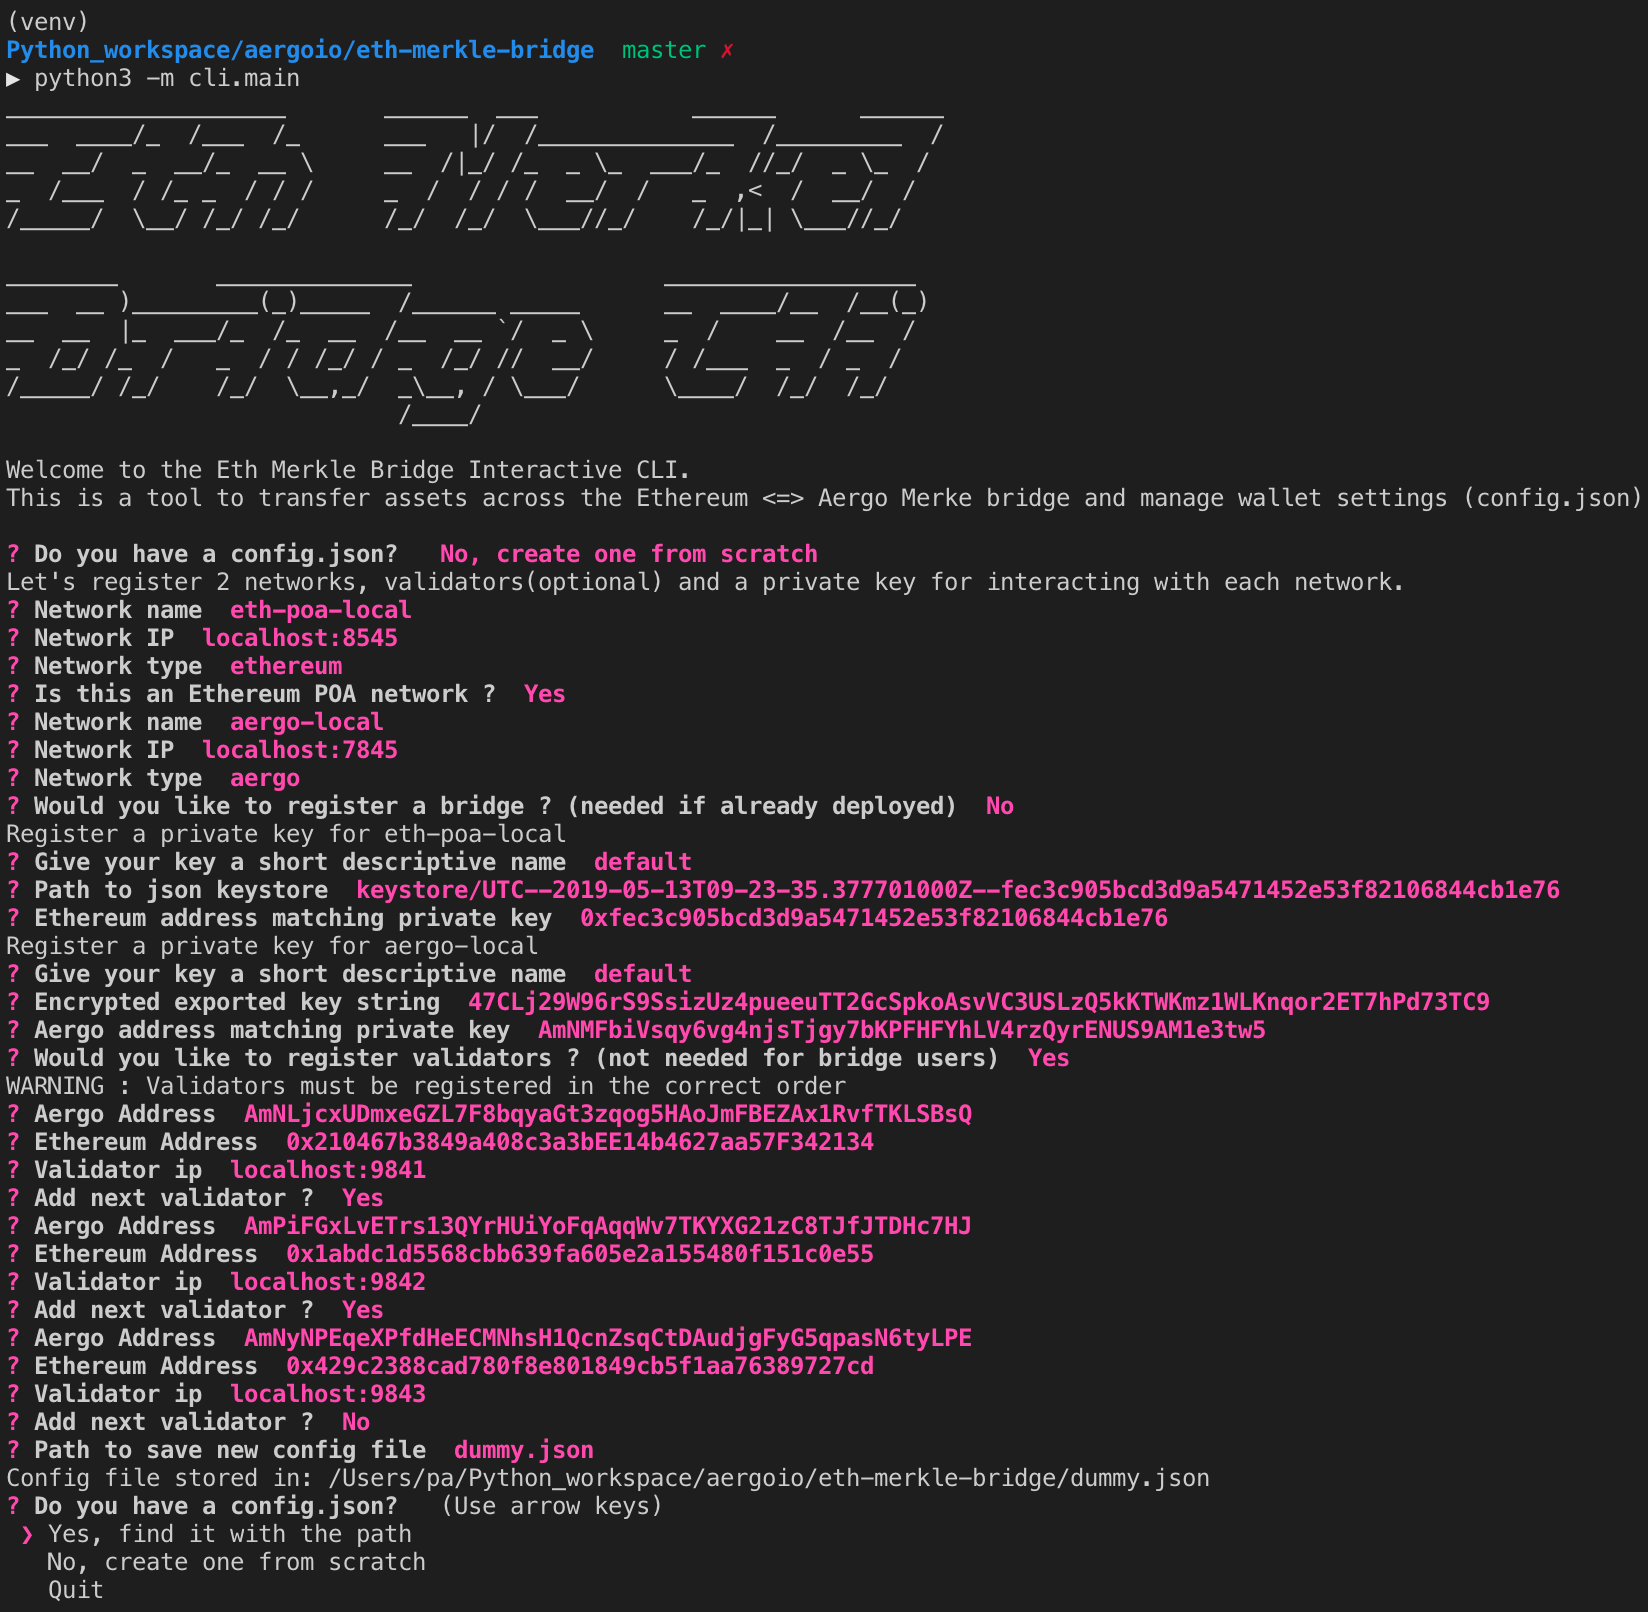
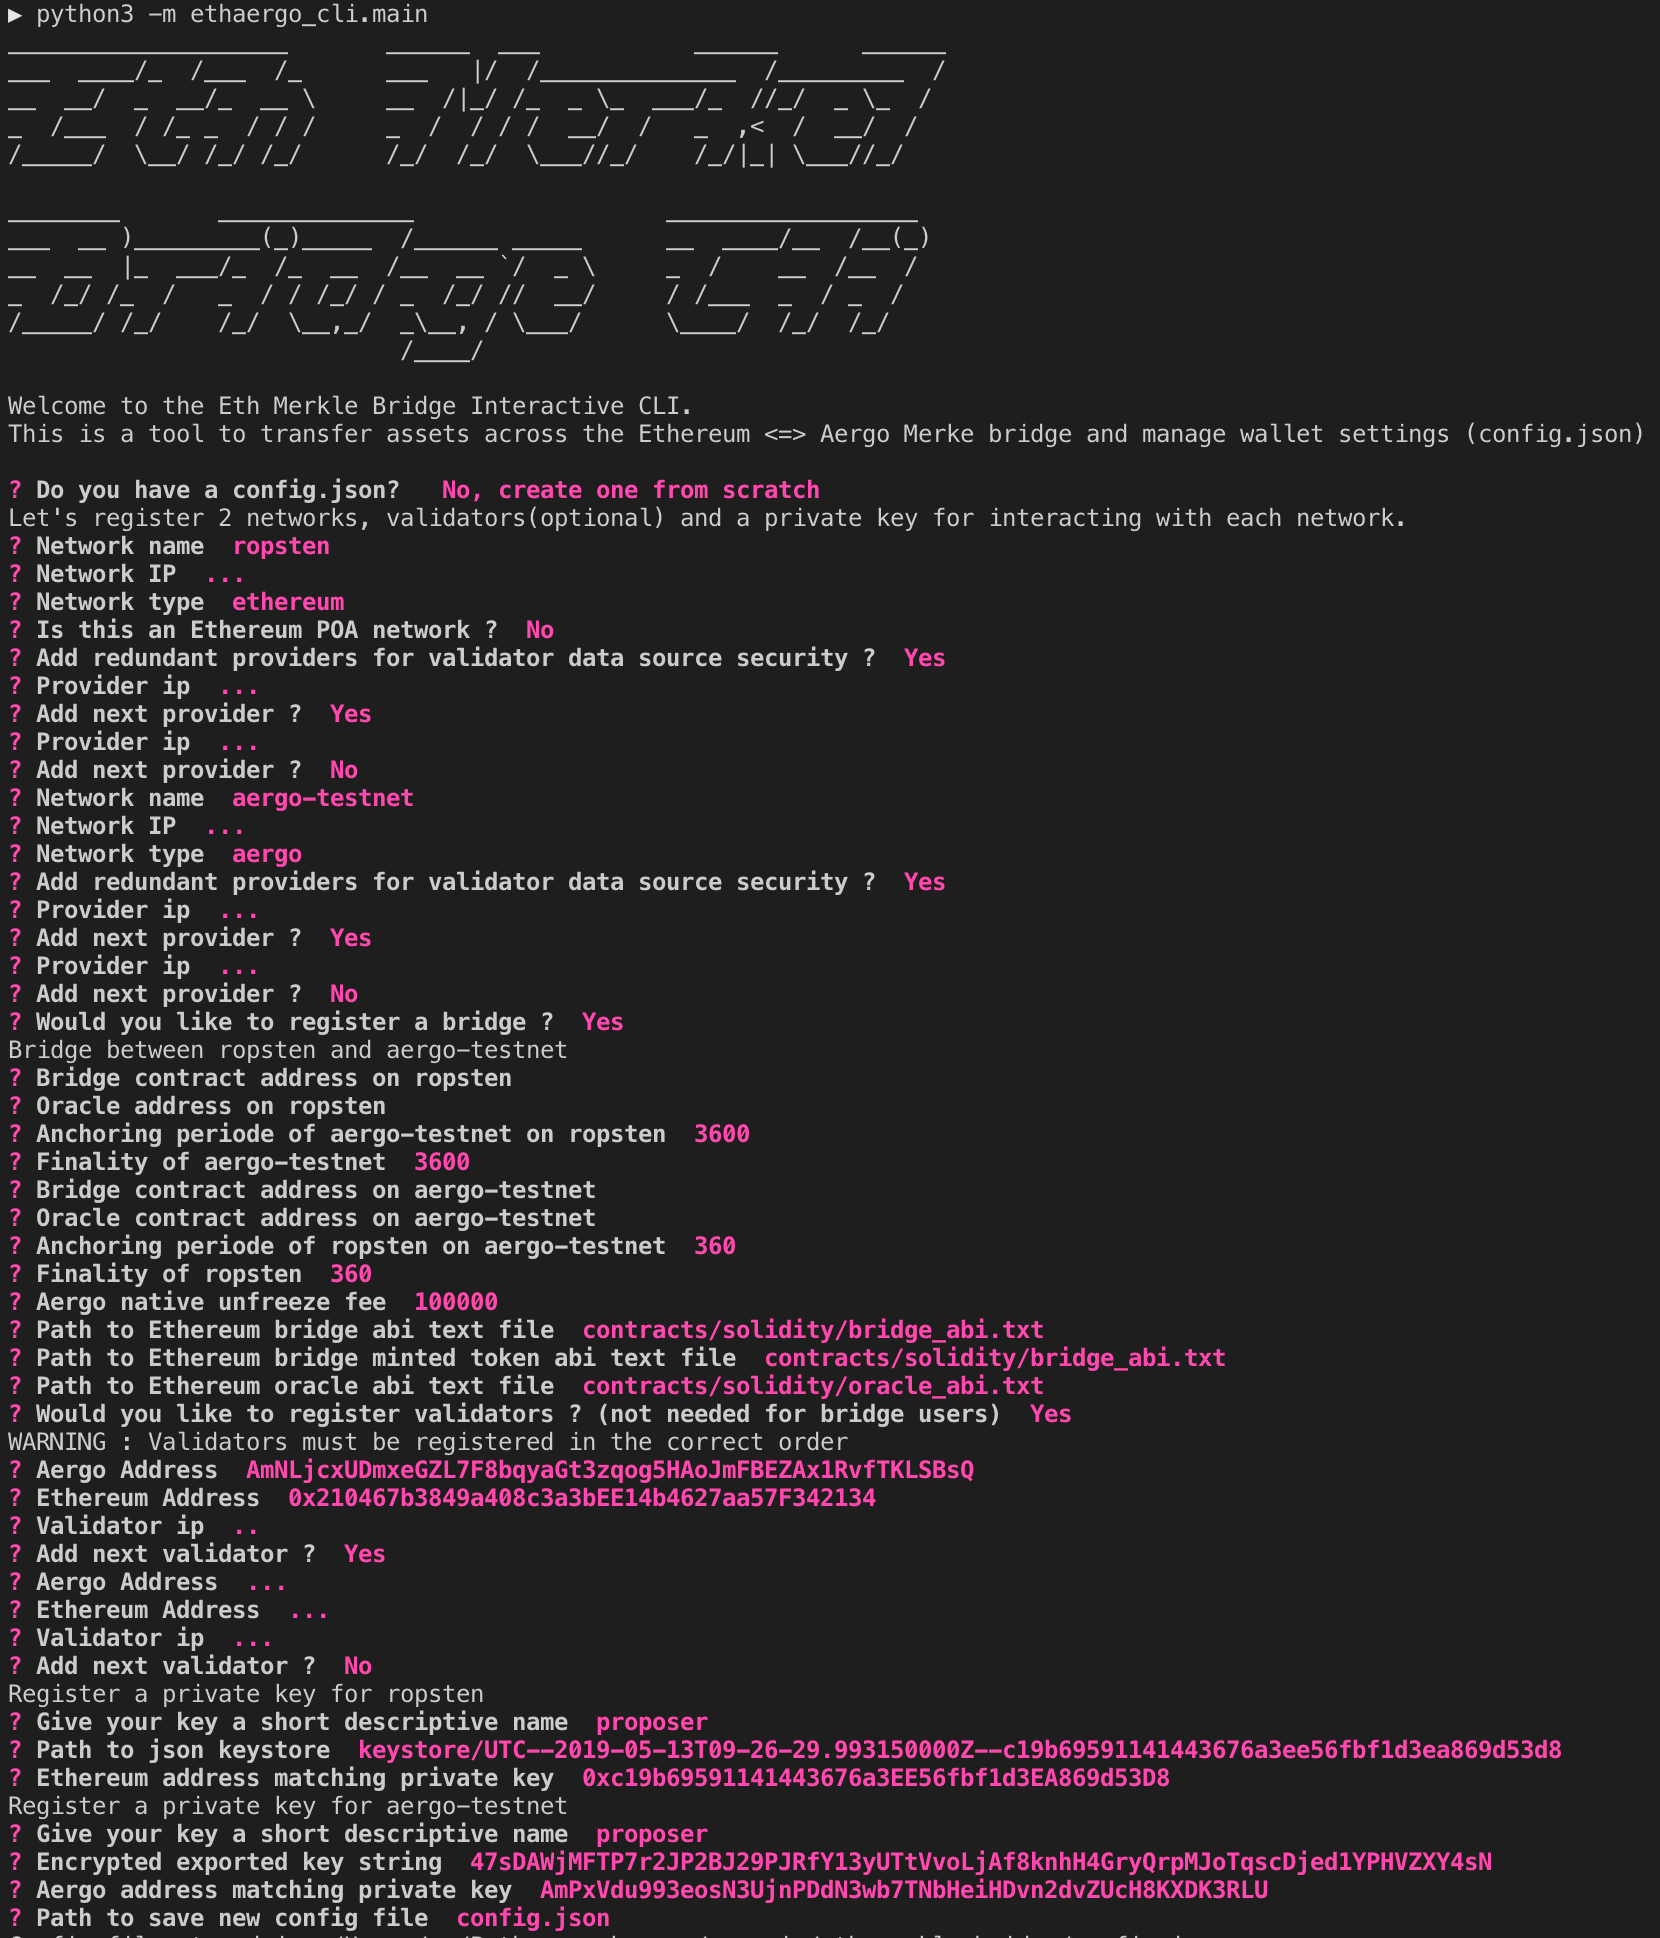
update deployment docs and cli

diff --git a/ethaergo_cli/main.py b/ethaergo_cli/main.py
@@ -361,8 +361,8 @@ class EthMerkleBridgeCli():
         if net2_type == 'ethereum':
             new_config['networks'][net2]['isPOA'] = answers['isPOA']
         # Register bridge contracts on each network
-        if promptYN('Would you like to register a bridge ? '
-                    '(needed if already deployed)', 'Yes', 'No'):
+        if promptYN('Would you like to register a bridge ?',
+                    'Yes', 'No'):
             answers = prompt_new_bridge(net1, net2)
             new_config['networks'][net1]['bridges'] = {
                 net2: {'addr': answers['bridge1'],
@@ -403,6 +403,15 @@ class EthMerkleBridgeCli():
                     minted_abi
                 new_config['networks'][net1]['bridges'][net2]['unfreeze_fee'] = \
                     answers['unfreeze_fee']
+
+        # Register bridge validators
+        if promptYN('Would you like to register validators ? '
+                    '(not needed for bridge users)', 'Yes', 'No'):
+            validators = prompt_new_validators()
+            new_config['validators'] = validators
+        else:
+            new_config['validators'] = {}
+
         # Register a new private key for each network
         new_config['wallet-eth'] = {}
         new_config['wallet'] = {}
@@ -426,14 +435,6 @@ class EthMerkleBridgeCli():
             name, addr, privkey = prompt_aergo_privkey()
             new_config['wallet'][name] = {"addr": addr,
                                           "priv_key": privkey}
-
-        # Register bridge validators
-        if promptYN('Would you like to register validators ? '
-                    '(not needed for bridge users)', 'Yes', 'No'):
-            validators = prompt_new_validators()
-            new_config['validators'] = validators
-        else:
-            new_config['validators'] = {}
 
         questions = [
             {

diff --git a/ethaergo_bridge_operator/validator/server.py b/ethaergo_bridge_operator/validator/server.py
@@ -99,8 +99,9 @@ if __name__ == '__main__':
         '-a', '--aergo', type=str, help='Name of Aergo network in config file',
         required=True)
     parser.add_argument(
-        '-e', '--eth', type=str, help='Name of Ethereum network in config file',
-        required=True)
+        '-e', '--eth', type=str, required=True,
+        help='Name of Ethereum network in config file',
+    )
     parser.add_argument(
         '-i', '--validator_index', type=int, required=True,
         help='Index of the validator in the ordered list of validators')

diff --git a/docs/source/contracts.rst b/docs/source/contracts.rst
@@ -1,9 +1,24 @@
 Deploying a new bridge
 ======================
 
-Before using the bridge deployer, a config file should be created to register network node connections, 
-bridge tempo (anchoring periode and finality of both chains), validators and the address of aergo_erc20 on ethereum.
-The aergo bridge contract must record the aergo_erc20 so that aergo can be unfroozen.
+Process
+-------
+1- Each Validator generates a private key and address to sign bridge messages (anchors, settings update...) and shares the address and validator ip with the bridge Proposer.
+
+2- Proposer creates a config.json file draft. (See `Create a new config file`_ below).
+
+3- Proposer deploys the eth-merkle-birdge.sol and eth-merkle-bridge.lua contracts (See `Deploy the bridge contracts`_ below).
+
+4- Proposer deploys the oracle.sol and oracle.lua and transfers bridge controle to oracles (See `Transfer control of the bridge to the multisig oracle`_ below).
+
+5- Proposer removes his private key registered in config.json, and shares config.json with Validators.
+
+6- Each Validator adds his private key to his config.json.
+
+7- The Validators start validating (see validator docs) with the correct validator index (see position of validator in config.json).
+
+8- Proposer starts operating the bridge (see proposer docs).
+
 
 Create a new config file
 ------------------------
@@ -11,12 +26,10 @@ A config file can be created with the cli tool or manually.
 
 .. image:: images/scratch.png
 
-.. image:: images/register_aergo_erc20.png
-
 
 Deploy the bridge contracts
 ---------------------------
-The sender of the deployment tx will be the bridge owner.
+The sender of the deployment tx will be the bridge owner. Ownership is then transfered to the multisig oracle.
 
 .. code-block:: bash
 
@@ -52,12 +65,6 @@ The sender of the deployment tx will be the bridge owner.
         > Bridge Address Aergo: AmhJjVxa7Yp8CiXpTXVhoDXiDa66SD6rsejbimPFNxzvPNbLzEg5
         ------ Store bridge addresses in test_config.json  -----------
 
-
-Send native aer to the bridge contract
---------------------------------------
-
-After deployment, the aer on the Aergo network should be sent (frozen) to the bridge contract so 
-that it can be unfrozen when users send their erc20 from the ethereum network.
 
 Transfer control of the bridge to the multisig oracle
 -----------------------------------------------------
@@ -104,3 +111,9 @@ and transfer ownership to the newly deployed contract.
         > Oracle Address Aergo: AmgwgSFDwtdxzdfa4kUxuYXMWkHN1MLZMVANBcm85rpsDSaAymFU
         ------ Store bridge addresses in test_config.json  -----------
         ------ Transfer bridge control to oracles -----------
+
+Send native aer to the bridge contract
+--------------------------------------
+
+After deployment, the aer on the Aergo network should be sent (frozen) to the bridge contract so 
+that it can be unfrozen when users send their erc20 from the ethereum network.
